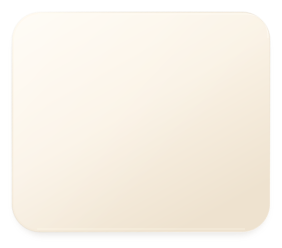
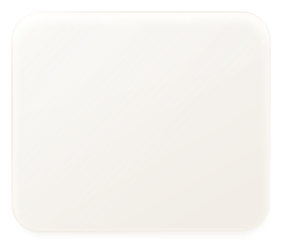
Add translucent glass and gentle local transitions in 0.5.2
Fade card reflections and local light for 160 ms; animate the theme thumb and panel entry. Keep focus immediate, support reduced motion, preserve the fixed scene and document pending physical motion validation.

Changed region(s): [[0.6241, 0.4516, 0.9645, 0.9315]]

diff --git a/FlixHome 2/app/style.css b/FlixHome 2/app/style.css
@@ -1,9 +1,9 @@
-/* Flix Home 0.5.0 — static material study. Tizen 4 / Chromium 56. */
+/* Flix Home 0.5.2 — translucent layers, composited focus fades. */
 * { box-sizing:border-box; }
 html,body { margin:0;width:100%;height:100%;overflow:hidden;background:#15191e;font-family:'SamsungOne','Helvetica Neue',Arial,sans-serif;cursor:none; }
 button { font:inherit;color:inherit;border:0;cursor:inherit;outline:0; }
-#stage { --text:#f0f1ef;--muted:#b5bbc2;--subtle:#969fa9;--surface:#11151a;--elevated:#15191e;--rim:rgba(219,228,239,.22);--focus:#e8edf0;--focus-fill:#2d3237;--overlay:rgba(0,0,0,.48);--inner:rgba(255,255,255,.13);--shadow:rgba(0,0,0,.22);position:relative;width:1920px;height:1080px;overflow:hidden;transform-origin:0 0;color:var(--text); }
-#stage.light { --text:#342f29;--muted:#655e54;--subtle:#776e61;--surface:#f6f0e6;--elevated:#f5eee3;--rim:rgba(111,96,76,.20);--focus:#b57848;--focus-fill:#fffbf3;--overlay:rgba(65,53,35,.26);--inner:rgba(255,255,255,.85);--shadow:rgba(74,57,32,.12); }
+#stage { --text:#f0f1ef;--muted:#b5bbc2;--subtle:#969fa9;--surface:rgba(32,39,47,.40);--elevated:rgba(20,25,31,.94);--rim:rgba(219,228,239,.22);--focus:#e8edf0;--focus-fill:#2d3237;--overlay:rgba(0,0,0,.48);--inner:rgba(255,255,255,.13);--shadow:rgba(0,0,0,.22);position:relative;width:1920px;height:1080px;overflow:hidden;transform-origin:0 0;color:var(--text); }
+#stage.light { --text:#342f29;--muted:#655e54;--subtle:#776e61;--surface:rgba(255,252,244,.32);--elevated:rgba(248,242,232,.95);--rim:rgba(111,96,76,.20);--focus:#b57848;--focus-fill:#fffbf3;--overlay:rgba(65,53,35,.26);--inner:rgba(255,255,255,.85);--shadow:rgba(74,57,32,.12); }
 #background { position:absolute;left:0;top:0;width:1920px;height:1080px;background:url('assets/scene-dark.png') center/100% 100% no-repeat; }
 .light #background { background-image:url('assets/scene-light.png'); }
 header { position:absolute;top:120px;left:580px;width:760px;text-align:center; }
@@ -17,12 +17,12 @@ header { position:absolute;top:120px;left:580px;width:760px;text-align:center; }
 .nav-label { position:absolute;top:82px;left:-64px;width:188px;text-align:center;font-size:22px;white-space:nowrap;opacity:0;color:var(--text); }
 .pill.focused { color:var(--text);background:var(--focus-fill);box-shadow:0 0 0 2px var(--focus),inset 0 1px 0 var(--inner); }
 .pill.focused .nav-label { opacity:1; }
-.theme-switch { width:220px;margin:0 0 0 14px;background:rgba(0,0,0,.20);box-shadow:inset 0 2px 5px rgba(0,0,0,.18);border:1px solid var(--rim); }
-.theme-switch.focused { background:rgba(0,0,0,.20);box-shadow:0 0 0 2px var(--focus); }
+.theme-switch { width:220px;margin:0 0 0 14px;background:rgba(0,0,0,.12);box-shadow:inset 0 2px 5px rgba(0,0,0,.18);border:1px solid var(--rim); }
+.theme-switch.focused { background:rgba(0,0,0,.12);box-shadow:0 0 0 2px var(--focus); }
 .mode-selection { position:absolute;top:5px;left:5px;width:103px;height:48px;border-radius:26px;background:linear-gradient(#f5f5f0,#cbd0d3);box-shadow:inset 0 1px 0 #fff,0 3px 6px rgba(0,0,0,.25);transform:translateX(105px); }
 .mode-label { position:relative;z-index:1;display:block;width:50%;font-size:22px;text-align:center;font-weight:500; }
 .mode-light { color:#c5cbd2; }.mode-dark { color:#252b31;font-weight:600; }
-.light .theme-switch,.light .theme-switch.focused { background:#d9d0c1; }
+.light .theme-switch,.light .theme-switch.focused { background:rgba(133,117,92,.13); }
 .light .mode-selection { background:linear-gradient(#fffdf6,#f3eadb);transform:translateX(0); }
 .light .mode-light { color:#332e27;font-weight:600; }.light .mode-dark { color:#62594b;font-weight:400; }
 #content { position:absolute;left:78px;top:396px;width:1764px; }
@@ -41,8 +41,10 @@ h1 { margin-left:48px;margin-bottom:0;font-size:25px;line-height:34px;color:var(
 .label { position:absolute;z-index:2;left:-10px;right:-10px;top:174px;font-size:25px;line-height:32px;color:var(--muted);white-space:nowrap;overflow:hidden;text-overflow:ellipsis; }
 .app.focused .tile-glow { opacity:.65; }.light .app.focused .tile-glow { opacity:.38; }
 .app.focused .surface-active { opacity:1; }
+.app.focused .surface-normal { opacity:0; }
 .app.focused .label { color:var(--text);font-weight:600; }
-.app.focused:after { content:'';position:absolute;z-index:3;left:0;top:0;width:258px;height:220px;border-radius:28px;box-shadow:0 0 0 2px var(--app-accent,var(--focus));pointer-events:none; }
+.app:after { content:'';position:absolute;z-index:3;left:0;top:0;width:258px;height:220px;border-radius:28px;box-shadow:0 0 0 2px var(--app-accent,var(--focus));pointer-events:none;opacity:0; }
+.app.focused:after { opacity:1; }
 #sources { position:absolute;left:126px;top:818px;width:1668px; }
 #sources h2 { font-size:27px;line-height:40px;color:var(--muted); }
 #input-row { display:flex;margin-top:24px; }
@@ -62,7 +64,16 @@ footer { position:absolute;left:126px;right:126px;bottom:48px;display:flex;justi
 .option-detail { color:var(--muted);font-size:22px;padding-left:28px;white-space:nowrap; }
 #toast { position:absolute;z-index:20;left:360px;right:360px;bottom:142px;padding:24px;border:1px solid var(--rim);border-radius:24px;background:var(--elevated);color:var(--text);box-shadow:0 10px 28px var(--shadow);font-size:25px;text-align:center; }
 .empty-state { padding:24px;font-size:28px; }.no-glow .tile-glow { display:none; }
-/* Static review: no transitions, filters, zoom or continuous effects. */
+/* Only opacity and the small switch thumb animate; focus itself is immediate.
+   No live blur, animated shadows, global colour motion or animation queues. */
+.tile-glow,.surface,.app:after { transition:opacity 160ms cubic-bezier(.2,.65,.3,1); }
+.mode-selection { transition:transform 180ms cubic-bezier(.2,.65,.3,1); }
+.nav-label { transition:opacity 140ms ease-out; }
+#modal:not(.hidden) #dialog { animation:dialog-in 160ms ease-out both; }
+@keyframes dialog-in { from { opacity:0;transform:translateY(7px); } to { opacity:1;transform:translateY(0); } }
+.reduce-motion .tile-glow,.reduce-motion .surface,.reduce-motion .app:after,.reduce-motion .mode-selection,.reduce-motion .nav-label { transition:none; }
+.reduce-motion #dialog { animation:none!important; }
+@media (prefers-reduced-motion:reduce) { .tile-glow,.surface,.app:after,.mode-selection,.nav-label {transition:none!important} #dialog{animation:none!important} }
 
 /* Brand accents remain local to the selected card. */
 .app[data-brand="youtube"]{--app-accent:#ff6a50}.app[data-brand="netflix"]{--app-accent:#e45b61}.app[data-brand="primevideo"]{--app-accent:#55b7e1}.app[data-brand="disneyplus"]{--app-accent:#72bdde}.app[data-brand="max"]{--app-accent:#b08bdc}.app[data-brand="twitch"]{--app-accent:#b28eea}

diff --git a/FlixHome 2/app/js/main.js b/FlixHome 2/app/js/main.js
@@ -54,7 +54,12 @@
  '<path d="m9 3-1 3-3 1-2 5 2 5 3 1 1 3h6l1-3 3-1 2-5-2-5-3-1-1-3Z"/><circle cx="12" cy="12" r="3"/>'
  ];
  function toolbar(){
-  var n=$('toolbar');n.textContent='';
+  var n=$('toolbar');
+  if(n.children.length===4){
+   [all?'Favoriten':'Alle Apps',editing?'Fertig':'Bearbeiten'].forEach(function(label,i){n.children[i].setAttribute('aria-label',label);n.children[i].querySelector('.nav-label').textContent=label;});
+   n.children[3].setAttribute('aria-checked',String(prefs.theme==='light'));return;
+  }
+  n.textContent='';
   [all?'Favoriten':'Alle Apps',editing?'Fertig':'Bearbeiten','Einstellungen','Darstellung'].forEach(function(label,i){
    var button=el('button','pill');button.setAttribute('aria-label',label);
    if(i===3){
@@ -102,7 +107,7 @@
     if(i===0){label='Darstellung';detail=prefs.theme==='light'?'Hell':'Dunkel';}
     if(i===2)label='TV-Einstellungen';
     if(i===3)label='Eingangsquellen';
-    if(i===4){label='Animationen';detail='Aus';}
+    if(i===4){label='Animationen';detail=prefs.reduceMotion?'Reduziert':'Sanft';}
     if(i===5){label='Kachellicht';detail=prefs.glow?'Ein':'Aus';}
     if(i===1||i===4||i===6)b.classList.add('group-start');
    }
@@ -122,7 +127,7 @@
  ['Samsung Home',function(){launch('com.samsung.tv.csfs');}],
  ['TV-Einstellungen über Samsung Home',function(){launch('com.samsung.tv.csfs');}],
  ['Quellen öffnen',function(){launch('org.tizen.SMSourceAPP');}],
- [prefs.reduceMotion?'Animationen: reduziert → normal':'Animationen: normal → reduziert',function(){toast('Animationen sind in dieser Version deaktiviert.');}],
+ [prefs.reduceMotion?'Animationen: reduziert → normal':'Animationen: normal → reduziert',function(){prefs.reduceMotion=!prefs.reduceMotion;save();appearance();}],
  [prefs.glow?'Örtliches Kachellicht ausschalten':'Örtliches Kachellicht einschalten',function(){prefs.glow=!prefs.glow;save();appearance();}],
  ['Apps neu einlesen',function(){load();}],
  ['Schließen',function(){}]

diff --git a/FlixHome 2/README.md b/FlixHome 2/README.md
@@ -1,6 +1,6 @@
 # Flix Home · experimental Tizen TV launcher
 
-A quiet, remote-first launcher for older Samsung Tizen TVs. Version 0.5.1 uses
+A quiet, remote-first launcher for older Samsung Tizen TVs. Version 0.5.2 uses
 an actual fixed 5×7 square-pixel clock, separated transparent vector marks,
 subtle glass cards and local focus light. The full-screen scene does not
 change during app navigation. A two-label light/dark switch stays visible;
@@ -24,10 +24,14 @@ correct light/dark rendering and responsive navigation for 0.5.0, and correct
 rendering and responsive navigation again after the 0.5.1 refinement.
 This is subjective device validation, not a measured frame-rate claim.
 
-The 0.5.1 home and settings views were also captured and visually inspected at
+The 0.5.2 home and settings views were also captured and visually inspected at
 1920×1080 in a browser. Preview data is mocked; these images are not TV footage.
 The capture harness only disables preview scaling to keep full resolution.
 No missing images or live CSS filters were found in the inspected browser view.
+The 0.5.2 package was signed, verified, installed and launched on the same TV.
+Its physical motion/rendering check is pending. Browser recordings use timestamped
+screenshots (about 10 captured frames/s); they show navigation and are not a
+TV recording or a frame-rate benchmark.
 
 HDMI switching to a connected source, physical Home replacement, cold boot and
 standby autostart remain unverified or unsupported. A settings launch callback
@@ -46,10 +50,11 @@ Open http://127.0.0.1:8092. A browser uses mock apps and inputs.
 Use arrow keys, Enter and Escape. On TV, use the remote's arrows, OK and Back.
 Hold OK to edit an app; The visible top-right switch always shows Hell and Dunkel; the selected half and keyboard focus have separate indicators. Settings also contains the toggle. Preferences
 stay in localStorage. Only changed matrix paths update once a second; digit size and spacing stay
-fixed. This material-design pass deliberately disables transitions and motion.
-Focus updates immediately; precomputed local glows appear only behind the
-selected tile. The Animationen row reports Aus. It is not an animation toggle
-in this static revision. No live blur or background movement is used.
+fixed. Focus updates immediately. Local light, reflection and rim opacity fade for 160 ms;
+the theme thumb moves for 180 ms and the settings panel enters gently for 160 ms.
+There is no spring, scale animation, live blur or moving background.
+Settings → Animationen switches between Sanft and Reduziert. Reduced motion
+disables these effects and browser prefers-reduced-motion is also respected.
 
 ![Home and settings in both themes — browser preview](docs/preview.jpg)
 
@@ -57,6 +62,9 @@ in this static revision. No live blur or background movement is used.
 input pills with outline icons and connection indicators, and settings icons.
 Disney+ uses a compact D+ mark; HBO/max uses a plain typographic fallback.
 These are deliberate asset choices, not exact reproductions of every mockup.
+0.5.2 makes the tile artwork genuinely translucent, adds restrained diagonal
+reflections and uses translucent input/toolbar materials. Settings retain dense
+surfaces for legibility. The backgrounds and the pixel clock stay fixed.
 
 ## Build and install on your own TV
 

diff --git a/FlixHome 2/REDDIT-DRAFT.md b/FlixHome 2/REDDIT-DRAFT.md
@@ -18,7 +18,7 @@ The idea was a quiet interface with big app tiles, a large pixel clock, beige/li
 
 The latest pass is closer to my mockups: coloured transparent logos, labels inside the tiles, separate input pills, warm beige and a nearly black dark mode. There is still work to do on the glass material, lighting and matching the references. Some logos are simplified marks or typographic fallbacks.
 
-Performance has also been a problem. Earlier versions lagged badly with larger animated layers. Version 0.5.1 uses pre-rendered textures and immediate focus changes, with animations disabled for this design pass. Both themes and responsive navigation have now been checked on my actual TV, but this is still an experimental project. Some visual checks and the demo recordings were done in a browser; those aren’t proof of TV performance.
+Performance has also been a problem. Earlier versions lagged badly with larger animated layers. Version 0.5.2 uses translucent pre-rendered glass textures, immediate focus changes and short local opacity fades. Reduced motion can be enabled in Settings. Both themes and responsive navigation have now been checked on my actual TV, but this is still an experimental project. Some visual checks and the demo recordings were done in a browser; those aren’t proof of TV performance.
 
 **What I wanted, but haven’t solved**
 
@@ -29,7 +29,7 @@ Performance has also been a problem. Earlier versions lagged badly with larger a
 
 **Where I’m stuck now**
 
-Codex helped get it running, but I’m going in circles trying to turn the references into a consistent design that this old web engine can actually render smoothly. The attached references are the target; I will include my own current TV recording to show where it is now. Smooth transitions are still on the wishlist, but I want to keep navigation responsive on this old hardware.
+Codex helped get it running, but I’m going in circles trying to turn the references into a consistent design that this old web engine can actually render smoothly. The attached references are the target; I will include my own current TV recording to show where it is now. Short transitions are now implemented, but I want to keep navigation responsive on this old hardware.
 
 What would you change first? I’d appreciate honest design feedback, concrete CSS/SVG suggestions, or help with the Tizen-specific Home/startup limitations. If you’ve built something similar for an older Samsung TV, I’d love to hear what actually worked on your model.
 

diff --git a/FlixHome 2/DESIGN.md b/FlixHome 2/DESIGN.md
@@ -1,4 +1,4 @@
-# Material design, 0.5.1
+# Material design, 0.5.2
 
 The reference review covered all 26 entries on the supplied inspiration board,
 then four user-prepared light/dark home/settings mockups. Reference images are
@@ -15,6 +15,8 @@ surfaces, fine rims, soft local illumination and clear layer separation.
   independent focus outline.
 
 Artwork is generated offline by tools/build-artwork.cjs; the TV does not run
-blur filters or a render loop. Navigation is immediate and intentionally static
-for this revision. The once-per-second clock updates only changed glyph paths.
+blur filters or a render loop. Navigation is immediate. Only local texture/rim opacity (160 ms), the theme
+thumb (180 ms) and panel entry (160 ms) animate. The material fill uses alpha
+so the underlying scene and card glow show through. Reduced motion disables
+transitions and panel entry. No continuously animated layers are used. The once-per-second clock updates only changed glyph paths.
 The TV runs locally without an external service or continuously running PC.

diff --git a/README.md b/README.md
@@ -1,8 +1,8 @@
 # Flix Home
 
 Experimental, vibe-coded launcher for the Samsung UE43NU7409 (2018, Tizen 4.0).
-Version **0.5.1**: square-pixel clock, warm light / dark themes, transparent
-app marks and remote-first navigation. Verified on this particular TV.
+Version **0.5.2**: square-pixel clock, warm light / dark themes, translucent glass cards, transparent
+app marks and gentle local transitions. Verified on this particular TV.
 
 **Physical Home replacement and reliable boot/standby autostart are not implemented.**
 
